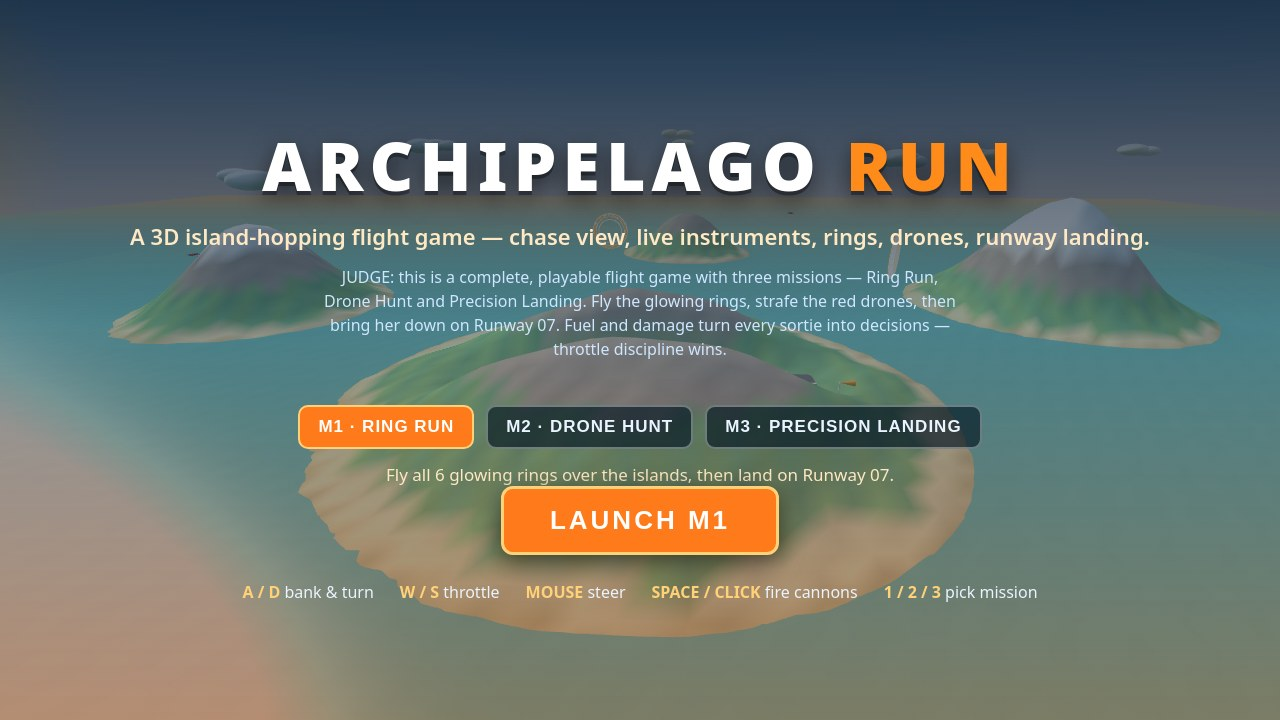
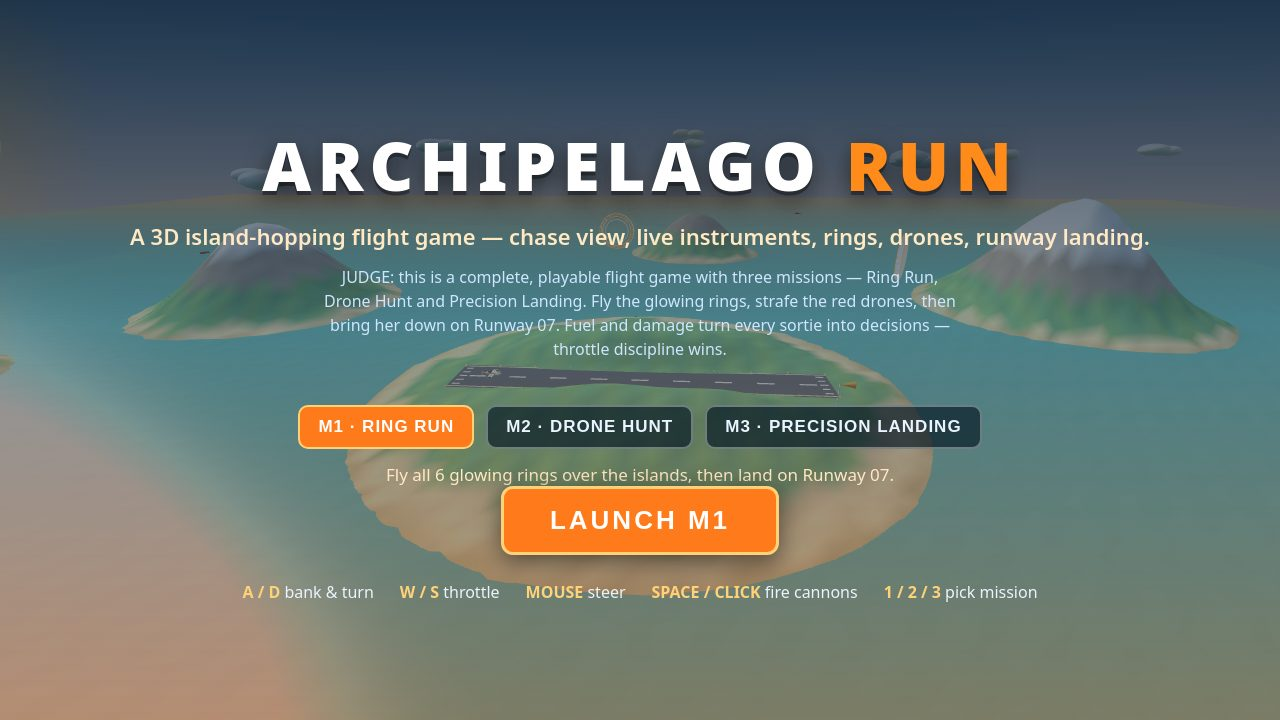
ARCHIPELAGO RUN v2: fix launch mountain crash, verify all 3 missions, regenerate screenshots

diff --git a/game/src/engine.js b/game/src/engine.js
@@ -57,6 +57,12 @@ function engineResetGame() {
   G.vspeed = 0;
   G.time = 0;
   fuelWarned = false;
+  /* The click on LAUNCH leaves the mouse wherever the button sits; that
+     must not count as a steering command on the takeoff roll, or every
+     launch starts with an unintended nose-down dive. */
+  steerX = 0;
+  steerY = 0;
+  G.pullUp = false;
   var i;
   for (i = 0; i < world.rings.length; i++) {
     world.rings[i].passed = false;
@@ -404,14 +410,35 @@ function updateFlight(dt) {
 
   /* Pitch from the mouse; the nose auto-levels when the mouse is centred.
      Takeoff assist: once past liftoff speed the nose rises on its own
-     until the plane is 500 ft up, then pitch returns to the mouse. */
+     until the plane is 800 ft up, then pitch returns to the mouse. */
   var pitchTarget = Math.max(-0.4, Math.min(0.5, -steerY * 0.5));
   /* Takeoff assist: once past liftoff speed the nose rises on its own
-     until the plane is 500 ft up (y >= 50), then pitch returns to the
+     until the plane is 800 ft up (y >= 80), then pitch returns to the
      mouse. Latched by climbDone so a later low landing approach never
-     re-triggers the climb. */
-  if (G.y >= 50) G.climbDone = true;
+     re-triggers the climb. Climbing to 800 ft clears the runway
+     island's slopes before the first turn, instead of handing the
+     plane over at 500 ft while it is still crossing them. */
+  if (G.y >= 80) G.climbDone = true;
   if (!G.climbDone && G.speed > 65) pitchTarget = 0.5;
+  /* Takeoff-phase terrain clearance: in the first 10 seconds after
+     launch, a descending plane within 450 ft of the terrain below is
+     pulled up instead of being allowed to fly into a hillside or the
+     sea. It latches on until the plane is 650 ft clear again — without
+     the latch it chatters on and off as the vertical speed crosses
+     zero and the plane keeps sinking into rising terrain. The runway
+     strip is exempt so a landing approach still works, and after 10 s
+     the pilot owns the plane outright. The 450 ft trigger leaves room
+     for the nose to swing up while the ground is still rising under
+     the plane on the steep island flanks. */
+  var groundNow = world.groundAt(G.x, G.z);
+  var overStrip = G.x > -130 && G.x < 130 && Math.abs(G.z) < 40;
+  var clearanceNow = G.y - groundNow;
+  if (G.pullUp) {
+    if (clearanceNow > 65 || overStrip || G.time >= 10) G.pullUp = false;
+  } else if (G.time < 10 && !overStrip && G.vspeed < 0 && clearanceNow < 45) {
+    G.pullUp = true;
+  }
+  if (G.pullUp) pitchTarget = Math.max(pitchTarget, 0.4);
   G.pitch += (pitchTarget - G.pitch) * Math.min(1, dt * 3);
   G.vspeed = Math.sin(G.pitch) * G.speed;
   G.y += G.vspeed * dt;

diff --git a/game/src/terrain.js b/game/src/terrain.js
@@ -21,9 +21,13 @@ function archipelagoSmoothstep(edge0, edge1, x) {
   return t * t * (3 - 2 * t);
 }
 
-/* Seven islands: x, z, radius, peak height. Island 0 is the runway island. */
+/* Seven islands: x, z, radius, peak height. Island 0 is the runway island:
+   a low hill (peak 30), not a mountain — the natural first turn off the
+   runway crosses its slopes while the plane is still climbing out, so a
+   tall peak there killed fresh launches. The big peaks stay on the
+   outer islands (88 / 70 / 95). */
 var ARCHIPELAGO_ISLANDS = [
-  { x: 0, z: 0, r: 230, peak: 58 },
+  { x: 0, z: 0, r: 230, peak: 30 },
   { x: 330, z: -190, r: 150, peak: 88 },
   { x: -320, z: -160, r: 140, peak: 70 },
   { x: 300, z: 260, r: 170, peak: 64 },
